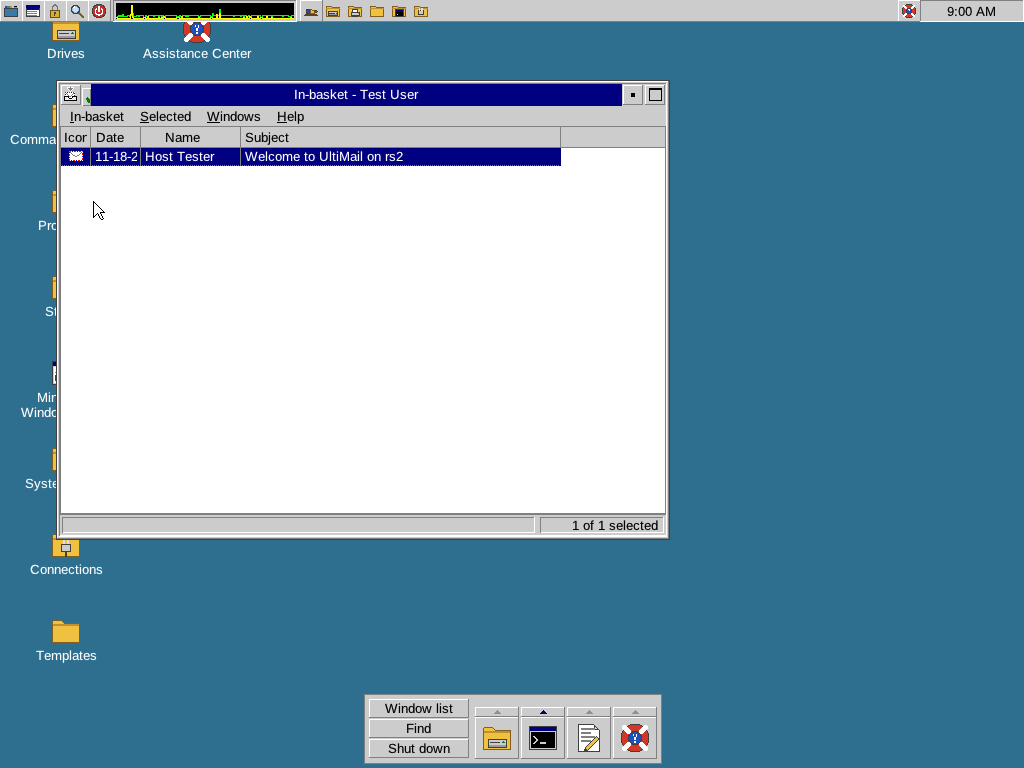
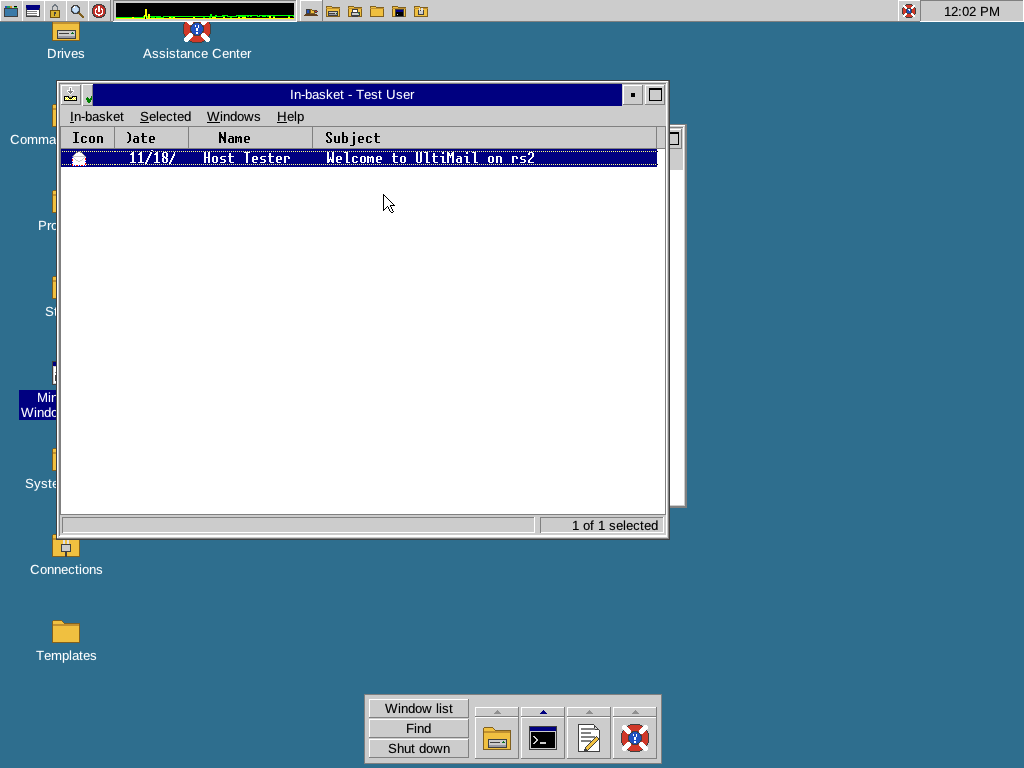
docs: UltiMail Lite's letter window, In-basket, Windows menu and minimized main window now drawn as on IBM's (what rs2 needed for each; the Date column's cut is UltiMail's own sums); new screenshots

diff --git a/docs/COMPATIBILITY.md b/docs/COMPATIBILITY.md
@@ -550,10 +550,10 @@ receiver), reached as 10.0.2.100 through `--guestfwd
 | In-basket object | works | Starts `UMAIL.EXE /HIDE` and opens the In-basket; first time, UltiMail asks for the user's name and its own password; the In-basket fetches the mail over POP3 (USER, PASS, STAT, RETR, DELE, QUIT) and lists it; letters open with their header and text, and stay in the mail store across restarts. |
 | New Letter object | works | Opens an empty letter (To, Cc, Subject, the SentMail folder). Sending not tried. |
 | Names and Addresses object | works | Opens the nickname notebook (its index, New Person, New Group). |
-| Letter window | partial | The header fields (From, Subject) are drawn too short and their text is cut; the tool bar (IBM's UCMENUS control: a WC_MENU whose bitmap items it measures and draws itself) is black. |
-| In-basket list | partial | The Date and Icon column titles and values are cut short. |
-| Windows menu | partial | "Address Book" is cut to "Address Boo" (its items have icons). |
-| UMAIL.EXE started by hand after a session | partial | Its main window, saved minimized (hidden in the Minimized Window Viewer), comes back drawn as a large icon at its full size; restoring it works. |
+| Letter window | works | The header fields, the tool bar (IBM's UCMENUS control: a WC_MENU whose bitmap items it measures and draws itself; Reply, Forward, Close, Delete, Print, Help) and the attachment button. |
+| In-basket list | works | Drawn by UltiMail (owner-drawn columns, "12.System VIO"). Its own short date ("11/18/26") is cut to "11/18/": the Date column is 50 pixels wide and UltiMail keeps 9/5 of an average character on each side, which leaves 46 pixels for 64 (the same sums on IBM's container and font). |
+| Windows menu | works | Its owner-drawn items (with icons) are whole; a long window title is shortened by UltiMail itself (31 characters). |
+| UMAIL.EXE started by hand after a session | works | Its main window, saved minimized, stays in the Minimized Window Viewer. |
 
 What it needed from rs2 (each with its check):
 
@@ -585,6 +585,31 @@ What it needed from rs2 (each with its check):
   them as UTF-8 and the kernel gave names back to programs as UTF-8.
 - **WinSetPresParam** keeps a font name the system does not have, as
   IBM's does (PMXTEST).
+- **PrfQueryProfileSize** sets the size to 0 for an application or key
+  that is not there (INITEST): UCMenus reads it whatever the result and
+  took stack garbage for a saved tool bar style (black, no buttons).
+- **WinLoadMenu** makes an action bar whatever the parent (IBM's
+  WC_MENU with MS_ACTIONBAR): UCMenus loads its menu for HWND_OBJECT and
+  sizes it from MM_QUERYITEMRECT; as a vertical menu of no width its
+  items came out of negative width.
+- **ES_MARGIN entry fields** take their margin around every position
+  WinSetWindowPos gives (WM_ADJUSTWINDOWPOS, three SV_CXBORDERs; CTLTEST):
+  the letter's From, Date and Subject fields were 6 pixels short of
+  their text.
+- **Image buttons** (BS_ICON, BS_MINIICON, BS_BITMAP, BS_TEXT) and the
+  button's WM_QUERYWINDOWPARAMS/WM_SETWINDOWPARAMS with its BTNCDATA
+  (CTLTEST): the attachment button's paper clip.
+- **Container details view** (SHELLTST): columns are their cxWidth plus
+  three average character widths (IBM's CnrQueryColumnPosInDV), and
+  cells of CFA_OWNER columns go to the owner with WM_DRAWITEM
+  (CNRDRAWITEMINFO), as IBM's CnrProcessColumnData.
+- **"N.System VIO" fonts**: IBM's sizes name VIO cell sizes (12 is
+  8x16); the In-basket and the Mail Cabinet ask for "12.System VIO".
+- **Menus**: an owner-drawn item of a pull-down is its measured width
+  plus the check mark's and the submenu arrow's columns (IBM's
+  MenuFormatMenu).
+- **The Minimized Window Viewer**: a frame minimized into it is
+  icon-sized at (-32000, -32000), as IBM's FrameMinMax (SHELLTST).
 
 ![UltiMail Lite's In-basket on rs2](images/rs2-ultimail-inbasket.png)
 
